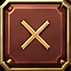
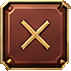
Restyle the map's site card as a parchment sheet
The card that explains a blocked site used the old dark-wood frame with
plain labels. It is now the kit's parchment with engraved type, a framed
portrait, the red close button and a gold or locked slate action button.
The close-button kit piece loses the dark patches outside its corners.

Changed region(s): [[0.0, 0.1127, 1.0, 1.0], [0.9014, 0.0, 1.0, 0.0845], [0.0, 0.0, 0.0845, 0.0845]]

diff --git a/scripts/ui/MapMenu.Home.cs b/scripts/ui/MapMenu.Home.cs
@@ -109,57 +109,108 @@ public partial class MapMenu
         Medallion("more", "people", "More", ShowMore);
     }
 
+    // The selected-site card is a sheet of the atlas's own parchment: dark ink, engraved capitals, kit buttons.
+    private static readonly Color SiteInk = new("2a1608"), SiteFaded = new("5a4330"), SiteCrimson = new("7a1f14");
+    private const float SitePanelWidth = 372, SitePanelPadding = 28, SitePanelHead = 52, SiteCloseSize = 38;
+
     private void BuildSitePanel()
     {
         _sitePanel = new PanelContainer { Name = "SelectedSite", Visible = false };
-        _sitePanel.AddThemeStyleboxOverride("panel", HomeMapUi.Surface(false, 16));
+        // The sheet's top flourish is part of its heading: the content starts beneath it.
+        var paper = RoyalKit.Slice("paper-clean", SitePanelPadding);
+        paper.ContentMarginTop = SitePanelHead;
+        _sitePanel.AddThemeStyleboxOverride("panel", paper);
         _hud.AddChild(_sitePanel);
         _sitePanel.AnchorLeft = _sitePanel.AnchorRight = 1;
-        _sitePanel.OffsetLeft = -382;
+        _sitePanel.OffsetLeft = -22 - SitePanelWidth;
         _sitePanel.OffsetRight = -22;
         _sitePanel.OffsetTop = SitePanelTop;
         _sitePanel.OffsetBottom = SitePanelTop + 240;
         _sitePanel.VisibilityChanged += QueueSitePanelFit;
         var side = new VBoxContainer();
-        side.AddThemeConstantOverride("separation", 8);
+        side.AddThemeConstantOverride("separation", 12);
         _sitePanel.AddChild(side);
-        var header = new HBoxContainer();
-        side.AddChild(header);
-        _siteEyebrow = RealmUi.Label("", 18, true);
-        _siteEyebrow.VerticalAlignment = VerticalAlignment.Center;
-        header.AddChild(_siteEyebrow);
-        var close = HomeMapUi.IconButton("close", "Close site details", CloseSiteDetails);
-        close.CustomMinimumSize = new Vector2(40, 40);
-        close.AddThemeConstantOverride("icon_max_width", 22); // Clears the rim of the compact button.
-        if (close is RealmButton compact) compact.FingertipReach = true;
-        header.AddChild(close);
+
         var encounter = new HBoxContainer();
-        encounter.AddThemeConstantOverride("separation", 12);
+        encounter.AddThemeConstantOverride("separation", 14);
         side.AddChild(encounter);
-        _portrait = new TextureRect
-        {
-            CustomMinimumSize = new Vector2(56, 64), ExpandMode = TextureRect.ExpandModeEnum.IgnoreSize,
-            StretchMode = TextureRect.StretchModeEnum.KeepAspectCentered, SizeFlagsVertical = SizeFlags.ShrinkBegin
-        };
-        encounter.AddChild(_portrait);
+        // The portrait sits in a dark gilt cell, so leaders, landmark miniatures and line icons all read on paper.
+        var cell = new PanelContainer { CustomMinimumSize = new Vector2(72, 80), SizeFlagsVertical = SizeFlags.ShrinkBegin, MouseFilter = MouseFilterEnum.Ignore };
+        cell.AddThemeStyleboxOverride("panel", new SliceStyle(RoyalKit.Texture("relic-card"), new Rect2(Vector2.Zero, RoyalKit.Texture("relic-card").GetSize() / RoyalKit.Density), RoyalKit.Density, 10, 10, 10, 10, 6, 6));
+        cell.SetMeta("frame_bleed", true);
+        encounter.AddChild(cell);
+        _portrait = new TextureRect { ExpandMode = TextureRect.ExpandModeEnum.IgnoreSize, StretchMode = TextureRect.StretchModeEnum.KeepAspectCentered,
+            MouseFilter = MouseFilterEnum.Ignore, TextureFilter = TextureFilterEnum.LinearWithMipmaps };
+        _portrait.SetMeta("frame_bleed", true);
+        cell.AddChild(_portrait);
         var names = new VBoxContainer { SizeFlagsHorizontal = SizeFlags.ExpandFill, SizeFlagsVertical = SizeFlags.ShrinkCenter };
-        names.AddThemeConstantOverride("separation", 4);
+        names.AddThemeConstantOverride("separation", 2);
         encounter.AddChild(names);
-        _siteName = RealmUi.Heading("", 22);
-        _siteName.VerticalAlignment = VerticalAlignment.Center;
+        _siteEyebrow = RoyalText.Caps("", ReadingText.PhoneCaps, SiteCrimson, 700);
+        _siteEyebrow.ShadowOffset = Vector2.Zero;
+        _siteEyebrow.CustomMinimumSize = new Vector2(0, 26);
+        names.AddChild(_siteEyebrow);
+        _siteName = new Label { AutowrapMode = TextServer.AutowrapMode.WordSmart, MouseFilter = MouseFilterEnum.Ignore };
+        _siteName.AddThemeFontOverride("font", RoyalFonts.Display(700));
+        _siteName.AddThemeFontSizeOverride("font_size", 24);
+        _siteName.AddThemeColorOverride("font_color", SiteInk);
+        _siteName.AddThemeColorOverride("font_shadow_color", Colors.Transparent);
+        _siteName.AddThemeConstantOverride("line_spacing", -4);
         names.AddChild(_siteName);
-        _siteStatus = RealmUi.Label("", 18, true);
-        names.AddChild(_siteStatus);
+
+        side.AddChild(new TextureRect { Texture = RoyalKit.Texture("codex-rule"), CustomMinimumSize = new Vector2(0, 14), ExpandMode = TextureRect.ExpandModeEnum.IgnoreSize,
+            StretchMode = TextureRect.StretchModeEnum.KeepAspectCentered, MouseFilter = MouseFilterEnum.Ignore, TextureFilter = TextureFilterEnum.LinearWithMipmaps });
+
         _overview = RealmUi.Scroll(side);
         _overview.AddThemeConstantOverride("separation", 10);
+        _siteStatus = SiteText("", SiteFaded);
+        _overview.AddChild(_siteStatus);
         _rewards = new VBoxContainer { Name = "SiteRewards" };
-        _rewards.AddThemeConstantOverride("separation", 10);
+        _rewards.AddThemeConstantOverride("separation", 8);
         _overview.AddChild(_rewards);
-        _description = RealmUi.Label("");
+        _description = SiteText("", SiteCrimson, 600);
         _overview.AddChild(_description);
-        _action = RealmUi.Button("flag", "Prepare battle", VisitSelected, true);
-        HomeMapUi.StyleButton(_action, true);
-        side.AddChild(_action);
+
+        var width = SitePanelWidth - 2 * SitePanelPadding;
+        var action = RoyalButton.Over(new Rect2(0, 0, width, 50), "Prepare battle", VisitSelected, 6);
+        action.CustomMinimumSize = action.Size;
+        side.AddChild(action);
+        _action = action;
+
+        // The kit's red close sits in the card's top right corner, over the layout rather than in it.
+        var close = RoyalButton.Over(new Rect2(SitePanelWidth - SiteCloseSize - 14, 14, SiteCloseSize, SiteCloseSize), "Close site details", CloseSiteDetails, 6);
+        close.SetStates(RoyalKit.Slice("close-button", 14), 6);
+        var corner = new Control { MouseFilter = MouseFilterEnum.Ignore };
+        corner.SetMeta("frame_bleed", true);
+        _sitePanel.AddChild(corner);
+        corner.AddChild(close);
+        // The panel container lays the holder out inside its padding; the button is placed from the card's corner.
+        close.Position -= new Vector2(SitePanelPadding, SitePanelHead);
+    }
+
+    /// <summary>Wrapping book-serif text in ink for the site card.</summary>
+    private static Label SiteText(string text, Color ink, int weight = 500)
+    {
+        var label = RoyalText.Paragraph(text, ReadingText.PhoneBody, ink, weight);
+        label.AddThemeColorOverride("font_shadow_color", Colors.Transparent);
+        return label;
+    }
+
+    private (string Caption, string Glyph, bool Enabled) _siteActionLook;
+
+    /// <summary>The card's action: a gold plaque when it can be taken, a locked slate one when it can't.</summary>
+    private void StyleSiteAction(string glyph)
+    {
+        var button = (RoyalButton)_action;
+        var enabled = !button.Disabled;
+        var look = (button.Text, glyph, enabled);
+        if (look == _siteActionLook && button.Caption != null) return;
+        _siteActionLook = look;
+        button.SetStates(RoyalKit.Slice(enabled ? "button-gold" : "button-slate", 14), 6);
+        var caption = RoyalText.Caps(button.Text, 18, enabled ? RoyalBoard.Ink : new Color("fbf3cf"), 700);
+        var icon = enabled ? (glyph == null ? null : RoyalKit.Texture(glyph)) : RoyalKit.Texture("icon-lock-small");
+        button.Arrange(caption, icon, new Vector2(24, 24), gap: 10);
+        button.AccessibilityName = button.Text;
     }
 
     // New reward rows only report their wrapped height once laid out, so measure on the next frame.
@@ -173,13 +224,14 @@ public partial class MapMenu
     {
         if (!IsInstanceValid(_sitePanel) || !_sitePanel.Visible) return;
         var side = _sitePanel.GetChild<VBoxContainer>(0);
+        // Wrapped text reports its height for the width it has, so the card is measured after layout.
         var content = side.GetCombinedMinimumSize().Y + _overview.GetCombinedMinimumSize().Y
             + _sitePanel.GetThemeStylebox("panel").GetMinimumSize().Y;
         var available = _hud.Size.Y - SitePanelTop - SitePanelBottomGap;
         _sitePanel.OffsetBottom = SitePanelTop + Mathf.Min(content, available);
     }
 
-    private const float SitePanelTop = 136, SitePanelBottomGap = 156;
+    private const float SitePanelTop = 118, SitePanelBottomGap = 156;
 
     private void RefreshZoneNavigation()
     {

diff --git a/scripts/ui/MapMenu.cs b/scripts/ui/MapMenu.cs
@@ -13,7 +13,8 @@ public partial class MapMenu : Control
     private AdventureTile _selectedGround;
     private string _activeMapId;
     private RoyalLabel _mapTitle, _zoneProgress;
-    private Label _siteName, _siteEyebrow, _siteStatus, _description;
+    private Label _siteName, _siteStatus, _description;
+    private RoyalLabel _siteEyebrow;
     private VBoxContainer _rewards;
     private TextureRect _portrait;
     private Button _action, _previousZone, _nextZone;
@@ -105,14 +106,14 @@ public partial class MapMenu : Control
         var canOpen = state.CanTravelToAdventureTile(_selectedGround, out var reason);
         _portrait.Texture = HomeMapArt.Icon("map");
         _siteEyebrow.Text = "Frontier";
-        RealmUi.SetDisplayText(_siteName, _selectedGround.Title);
+        _siteName.Text = _selectedGround.Title;
         _siteStatus.Text = state.IsAdventureTileOpened(_selectedGround) ? "Charted" : $"Costs {GameState.AdventureTileFoodCost} food to open";
         RealmUi.Clear(_rewards);
-        _rewards.AddChild(RealmUi.Label("Reveals the land around it", 18, true));
+        _rewards.AddChild(SiteText("Reveals the land around it", SiteFaded));
         _description.Text = reason; _description.Visible = !canOpen;
         _action.Text = _mapCanvas.IsTravelling ? "Opening…" : "Open";
-        _action.Icon = HomeMapArt.Icon("food");
         _action.Disabled = _mapCanvas.IsTravelling || !canOpen;
+        StyleSiteAction(null);
     }
     private void RefreshDiscoveryDetails()
     {
@@ -121,13 +122,13 @@ public partial class MapMenu : Control
         var canTravel = state.CanTravelToAdventureTile(tile, out var reason);
         _portrait.Texture = HomeMapArt.Icon(_selectedDiscovery.Icon);
         _siteEyebrow.Text = "Resource tile";
-        RealmUi.SetDisplayText(_siteName, _selectedDiscovery.Title);
+        _siteName.Text = _selectedDiscovery.Title;
         _siteStatus.Text = state.HasClaimedAdventureDiscovery(tile.Id) ? "Collected" : $"Frontier · costs {GameState.AdventureTileFoodCost} food to open";
         ShowDiscoveryRewards();
         _description.Text = reason; _description.Visible = !canTravel;
         _action.Text = _mapCanvas.IsTravelling ? "Collecting…" : "Collect";
-        _action.Icon = HomeMapArt.Icon(_selectedDiscovery.Icon);
         _action.Disabled = _mapCanvas.IsTravelling || !canTravel;
+        StyleSiteAction(null);
     }
     private void RefreshUi()
     {
@@ -160,7 +161,7 @@ public partial class MapMenu : Control
         }
         _portrait.Texture = !known ? RealmUi.Icon("lock") : leader ? AdventureMapArt.Leader(_selected.Portrait) : AdventureMapArt.Miniature(_selected.Kind);
         _siteEyebrow.Text = !known ? "Uncharted" : leader ? $"{(boss ? "Boss" : "Rival")} · Stage {_selected.Stage}" : "Landmark";
-        RealmUi.SetDisplayText(_siteName, known ? _selected.Title : "Beyond the mist");
+        _siteName.Text = known ? _selected.Title : "Beyond the mist";
         _siteStatus.Text = !known ? "Open the land beside this tile to reach it" : bossLocked ? $"Boss gate · {BossGateLeaders - state.GetAdventureBossRemainingLeaders(_selected.Stage)}/{BossGateLeaders} leaders defeated" : leader ? $"{stage.StageName} · {state.GetStageStars(_selected.Stage)}/3 stars" : visited ? "Visited · rewards collected" : GameState.IsAdventureResourceTile(tile) ? $"Frontier · costs {GameState.AdventureTileFoodCost} food to open" : "Open tile · ready to visit";
         _description.Text = ""; _description.Visible = false;
         ShowSiteRewards(known, leader, stage);
@@ -176,7 +177,7 @@ public partial class MapMenu : Control
             _action.Disabled = true;
             _description.Text = battleReason; _description.Visible = true;
         }
-        _action.Icon = RealmUi.Icon(leader ? "sword" : _selected.Icon);
+        StyleSiteAction(leader ? "icon-swords-dark" : null);
 
         _mapCanvas.RefreshKnowledge();
     }

diff --git a/scripts/ui/MapMenu.Rewards.cs b/scripts/ui/MapMenu.Rewards.cs
@@ -5,12 +5,28 @@ public partial class MapMenu
     private HBoxContainer AddReward(string label, string icon, string amount, string hint)
     {
         var row = new HBoxContainer();
-        row.AddThemeConstantOverride("separation", 10);
-        var caption = RealmUi.Label(label, 20, true);
+        row.AddThemeConstantOverride("separation", 12);
+        var caption = SiteText(label, SiteInk);
+        caption.AutowrapMode = TextServer.AutowrapMode.Off;
+        caption.SizeFlagsHorizontal = SizeFlags.ExpandFill;
         caption.VerticalAlignment = VerticalAlignment.Center;
         row.AddChild(caption);
-        row.AddChild(HomeResourceUi.Amount(icon, amount, hint));
+        row.AddChild(SiteAmount(icon, amount, hint));
         _rewards.AddChild(row);
+        return row;
+    }
+
+    /// <summary>A painted resource icon and its amount in bold ink, as the card's reward rows show them.</summary>
+    private static HBoxContainer SiteAmount(string icon, string amount, string hint)
+    {
+        var row = new HBoxContainer { TooltipText = hint, AccessibilityName = hint, MouseFilter = MouseFilterEnum.Pass };
+        row.AddThemeConstantOverride("separation", 6);
+        row.AddChild(new TextureRect { Texture = HomeMapArt.Icon(icon), CustomMinimumSize = new Vector2(30, 30), ExpandMode = TextureRect.ExpandModeEnum.IgnoreSize,
+            StretchMode = TextureRect.StretchModeEnum.KeepAspectCentered, MouseFilter = MouseFilterEnum.Ignore, TextureFilter = TextureFilterEnum.LinearWithMipmaps });
+        var number = SiteText(amount, SiteInk, 700);
+        number.AutowrapMode = TextServer.AutowrapMode.Off;
+        number.VerticalAlignment = VerticalAlignment.Center;
+        row.AddChild(number);
         return row;
     }
 
@@ -23,12 +39,12 @@ public partial class MapMenu
         if (leader)
         {
             var victory = AddReward("Victory rewards", "gold", $"+{stage.RewardGold:N0}", $"Victory · {stage.RewardGold:N0} gold");
-            if (stage.RewardFood > 0) victory.AddChild(HomeResourceUi.Amount("food", $"+{stage.RewardFood}", $"Victory · {stage.RewardFood} rations"));
+            if (stage.RewardFood > 0) victory.AddChild(SiteAmount("food", $"+{stage.RewardFood}", $"Victory · {stage.RewardFood} rations"));
         }
         else if (_selected.Kind == AdventureSiteKind.Gold) AddReward("Supplies", "gold", $"+{_selected.GoldReward:N0}", $"{_selected.GoldReward:N0} gold");
         else if (_selected.Kind == AdventureSiteKind.Food) AddReward("Supplies", "food", $"+{_selected.FoodReward}", $"{_selected.FoodReward} rations");
         if (leader) AddEntryCost(GameState.Instance.GetStageEntryFoodCost(_selected.Stage));
-        if (!leader) _rewards.AddChild(RealmUi.Label("Opens surrounding tiles", 18, true));
+        if (!leader) _rewards.AddChild(SiteText("Opens surrounding tiles", SiteFaded));
     }
 
     private void ShowDiscoveryRewards()
@@ -37,6 +53,6 @@ public partial class MapMenu
         var survey = _selectedDiscovery.Kind == AdventureDiscoveryKind.Survey;
         AddReward(survey ? "Survey" : "Supplies", _selectedDiscovery.Icon,
             survey ? "Nearby land" : $"+{_selectedDiscovery.Amount:N0}", _selectedDiscovery.RewardText);
-        _rewards.AddChild(RealmUi.Label(survey ? "Charts the plain land around it" : "Reveals the land around it", 18, true));
+        _rewards.AddChild(SiteText(survey ? "Charts the plain land around it" : "Reveals the land around it", SiteFaded));
     }
 }

diff --git a/art/royal/chrome.py b/art/royal/chrome.py
@@ -94,13 +94,13 @@ def main(only=()):
     warband, hub, multiplayer, codex = plate("warband"), plate("hub"), plate("multiplayer"), plate("codex")
     # The tab is the strip's second tab with its whole rim: both gold dividers it shares with its neighbours and
     # the rail beneath, so a tab standing on its own is framed on all four sides. The buttons lose the plate's
-    # background beyond their chamfered corners.
+    # background beyond their chamfered corners, and so does the close button (it sits on parchment on the map).
     for name, rect in {"button-navy": (753, 610, 216, 62), "button-gold": (979, 610, 265, 62), "tab": (730.3, 56, 111.8, 72.6),
                        "tile": (753, 377, 181, 68), "close-button": (1186, 27, 54, 54)}.items():
         if wanted(name):
             piece = cut(warband, *rect)
             if name == "tab": piece = clear_tab_corners(piece)
-            elif name.startswith("button-"): piece = rims.clear_outside(piece)
+            elif name.startswith("button-") or name == "close-button": piece = rims.clear_outside(piece)
             piece.save(OUT / f"{name}.png", optimize=True)
     if wanted("paper"): cut(codex, 126, 145, 535, 512).save(OUT / "paper.png", optimize=True)
     if wanted("modal-frame"): modal_frame(hub)
